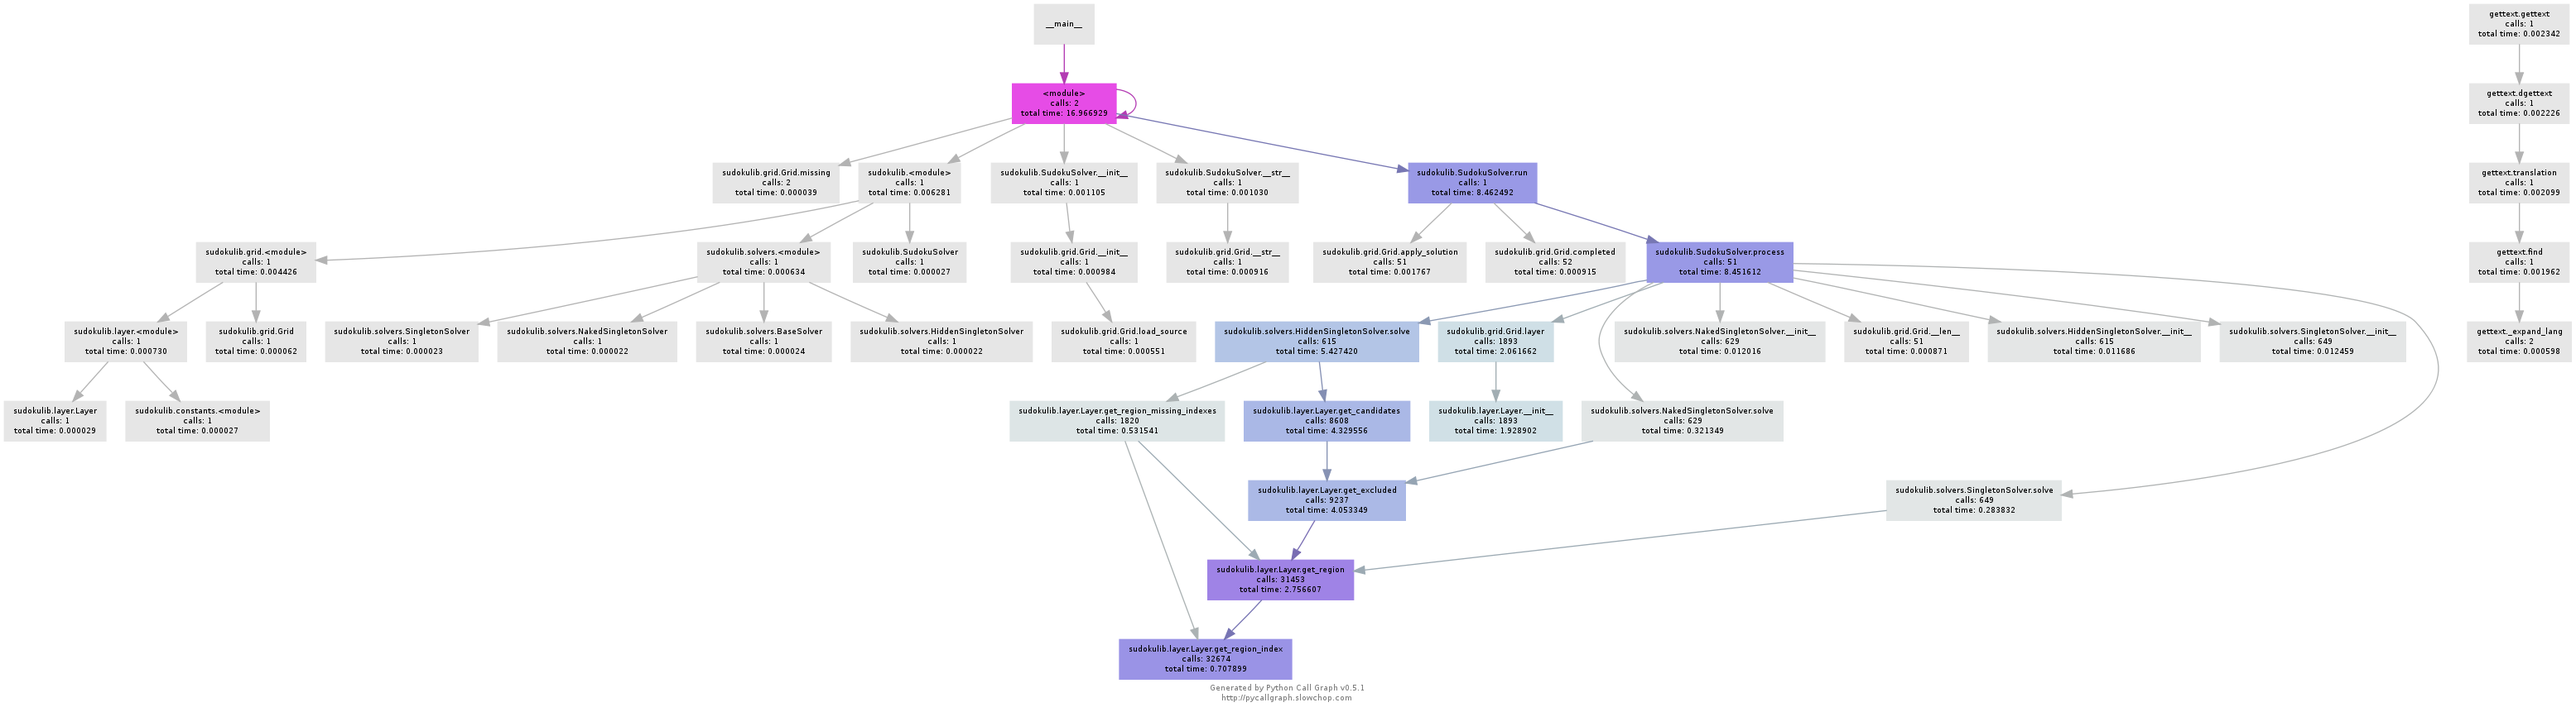
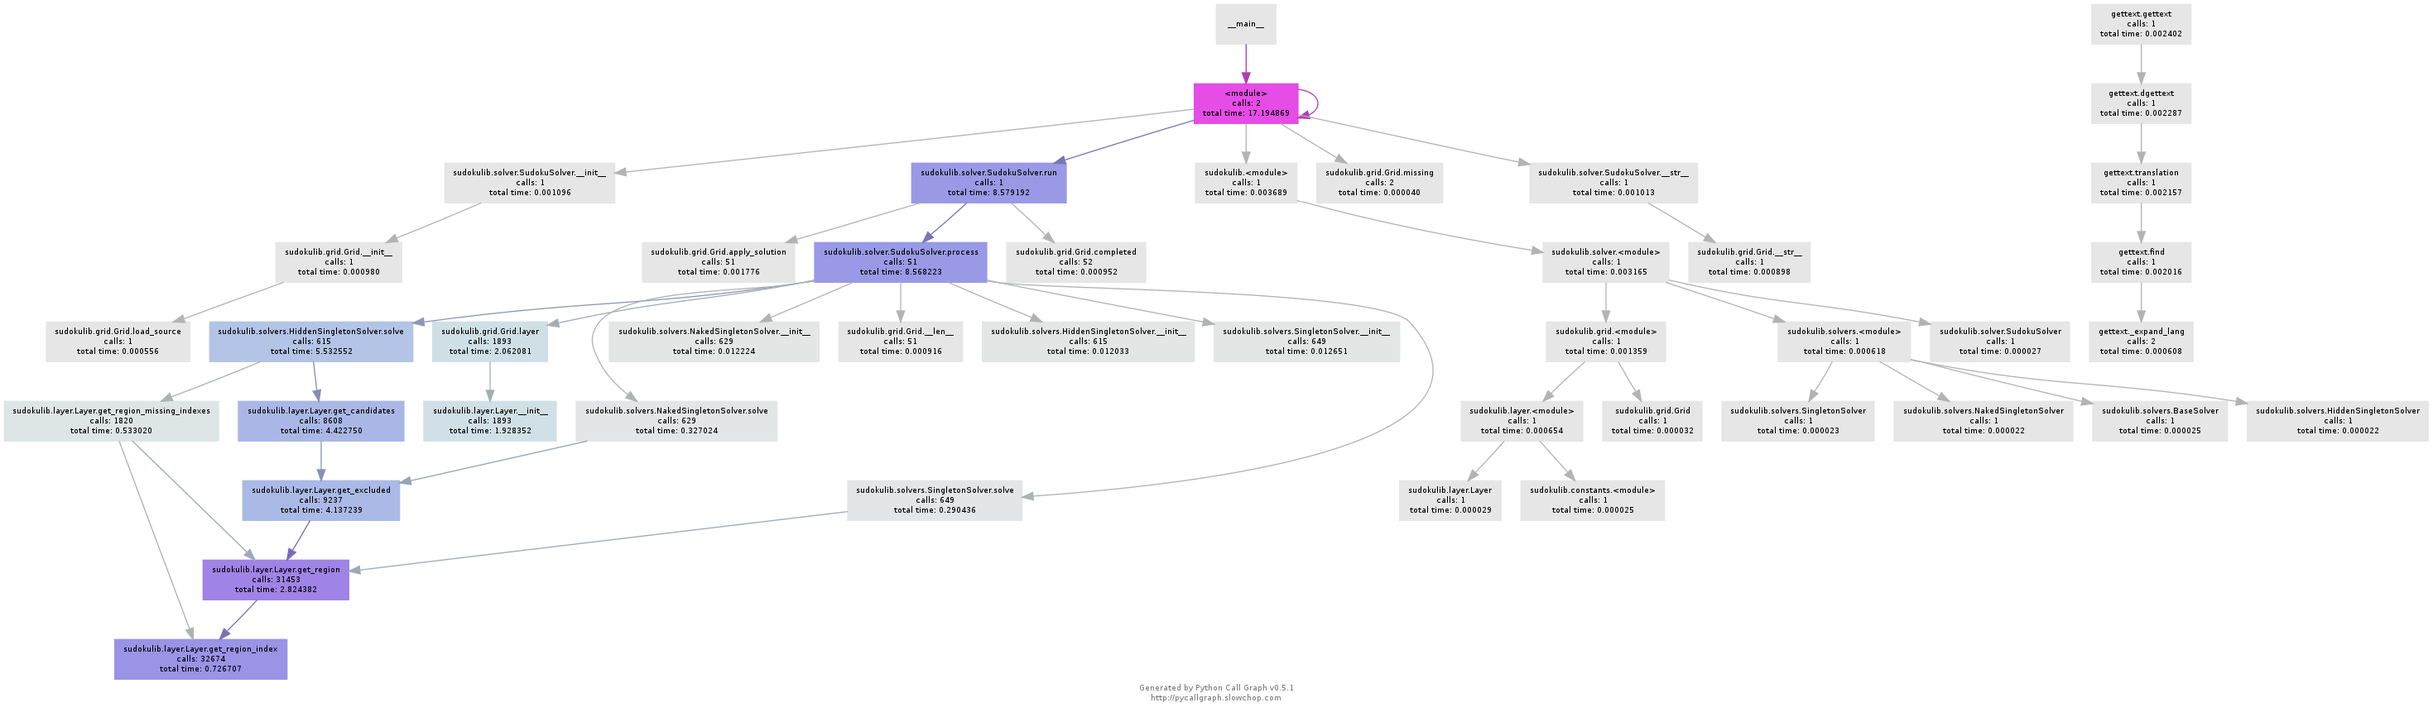
moving the solver

diff --git a/sudokulib/__init__.py b/sudokulib/__init__.py
@@ -1,48 +1,2 @@
 """sudokulib"""
-from sudokulib.grid import Grid
-from sudokulib.solvers import SingletonSolver
-from sudokulib.solvers import NakedSingletonSolver
-from sudokulib.solvers import HiddenSingletonSolver
-
-
-class SudokuSolver(object):
-    """Solver of Sudoku Puzzles"""
-
-    def __init__(self, filename, free_char='.',
-                 solvers=[SingletonSolver,
-                          NakedSingletonSolver,
-                          HiddenSingletonSolver,
-                          ]):
-        self.solvers = solvers
-        self.free_char = free_char
-        self.grid = Grid(filename, self.free_char)
-
-    def run(self, verbosity):
-        """Launch the loop of processing"""
-        while not self.grid.completed:
-            if verbosity == 2:
-                print self
-                print '%s items missing' % self.grid.missing
-
-            position, solution = self.process(verbosity)
-
-            if solution:
-                self.grid.apply_solution(position, solution)
-            else:
-                break
-
-    def process(self, verbosity):
-        """Process the missing elements into the solvers"""
-        for i in range(len(self.grid)):
-            if self.grid.data_solution[i] == self.grid.mystery_char:
-                for solver_class in self.solvers:
-                    solution = solver_class(self.grid.layer, i).solve()
-                    if solution:
-                        if verbosity == 2:
-                            print '%s has found %s at %s' % (
-                                solver_class.name, solution, i)
-                        return i, solution
-        return None, None
-
-    def __str__(self):
-        return self.grid.__str__()
+from sudokulib.solver import SudokuSolver

diff --git a/sudokulib/solver.py b/sudokulib/solver.py
@@ -1,0 +1,48 @@
+"""Solver for sudokulib"""
+from sudokulib.grid import Grid
+from sudokulib.solvers import SingletonSolver
+from sudokulib.solvers import NakedSingletonSolver
+from sudokulib.solvers import HiddenSingletonSolver
+
+
+class SudokuSolver(object):
+    """Solver of Sudoku Puzzles"""
+
+    def __init__(self, filename, free_char='.',
+                 solvers=[SingletonSolver,
+                          NakedSingletonSolver,
+                          HiddenSingletonSolver,
+                          ]):
+        self.solvers = solvers
+        self.free_char = free_char
+        self.grid = Grid(filename, self.free_char)
+
+    def run(self, verbosity):
+        """Launch the loop of processing"""
+        while not self.grid.completed:
+            if verbosity == 2:
+                print self
+                print '%s items missing' % self.grid.missing
+
+            position, solution = self.process(verbosity)
+
+            if solution:
+                self.grid.apply_solution(position, solution)
+            else:
+                break
+
+    def process(self, verbosity):
+        """Process the missing elements into the solvers"""
+        for i in range(len(self.grid)):
+            if self.grid.data_solution[i] == self.grid.mystery_char:
+                for solver_class in self.solvers:
+                    solution = solver_class(self.grid.layer, i).solve()
+                    if solution:
+                        if verbosity == 2:
+                            print '%s has found %s at %s' % (
+                                solver_class.name, solution, i)
+                        return i, solution
+        return None, None
+
+    def __str__(self):
+        return self.grid.__str__()
